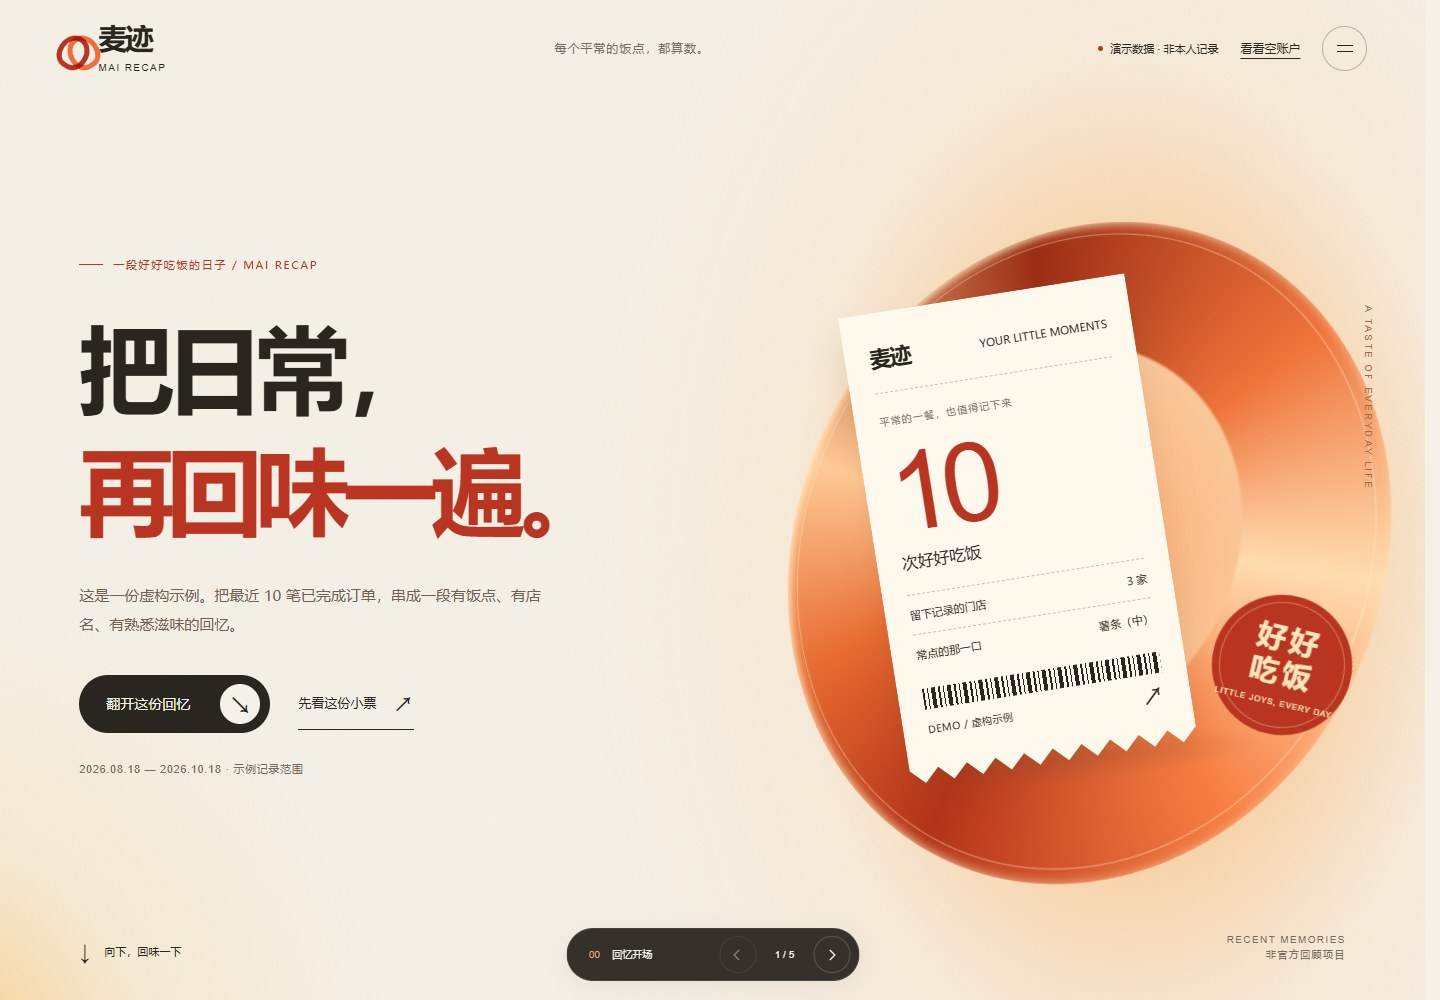
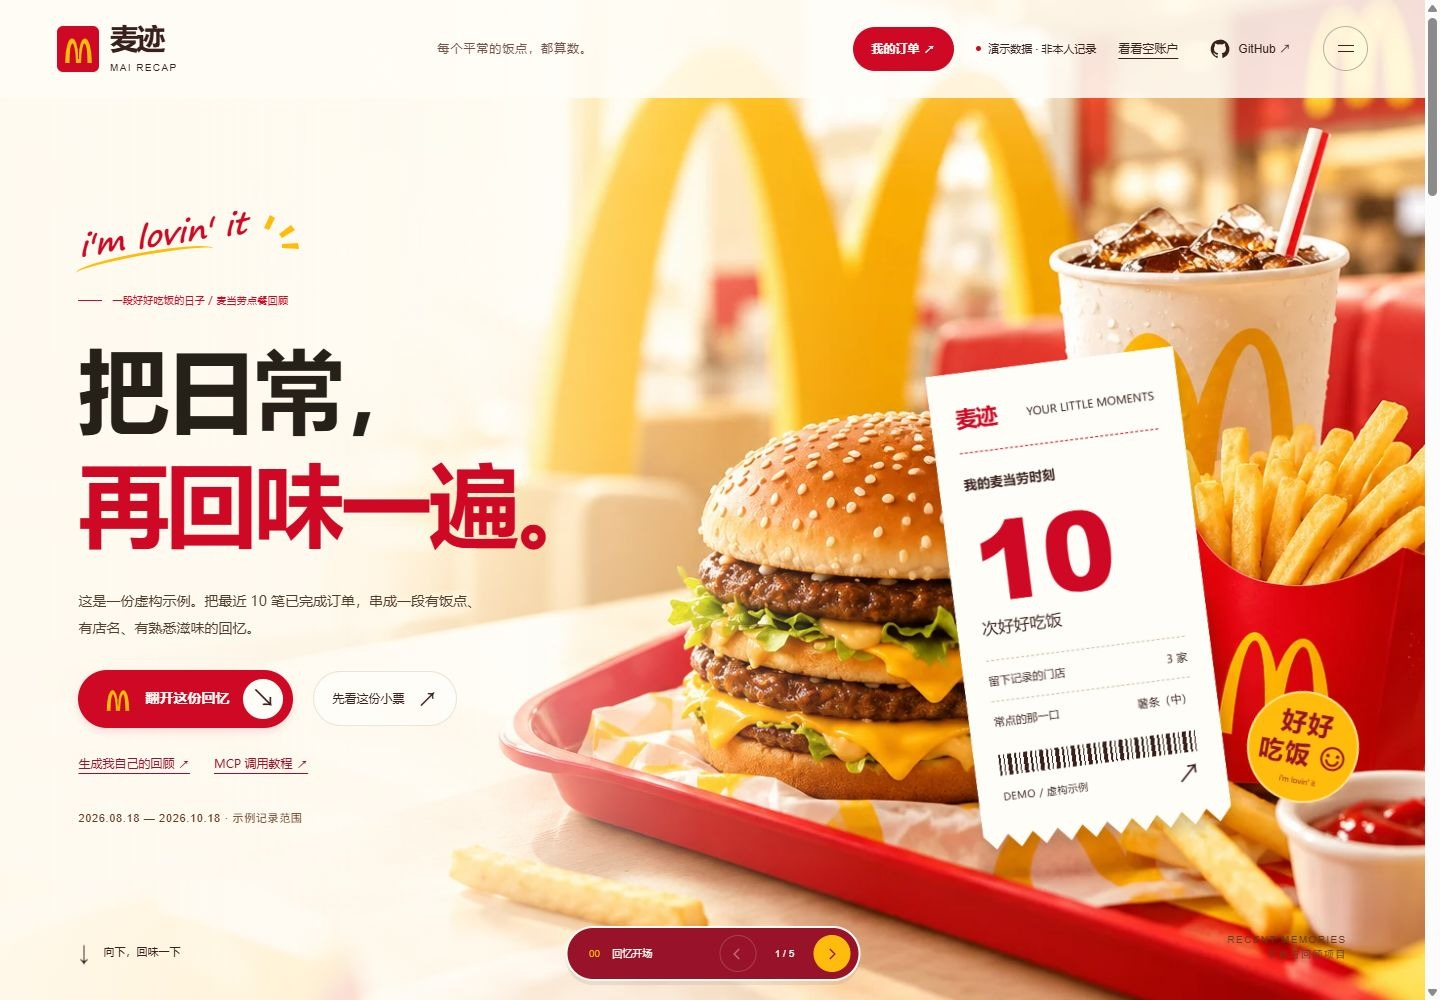
docs: 更新项目介绍与新版界面预览

diff --git a/README.md b/README.md
@@ -6,9 +6,11 @@
   <img src="docs/readme-cover.svg" width="100%" alt="麦迹：把日常，再回味一遍。近期点餐记录，五页回顾，一张分享卡。">
 </p>
 
-<p align="center"><strong>把近期麦当劳点餐记录，变成一份值得收藏的回忆。</strong></p>
+<p align="center"><strong>把每个平常的饭点，打包成一份回忆。</strong></p>
 
-在网页输入自己的 MCP 连接凭证，查看近期历史订单，生成五页回顾和分享卡。无需先上传订单文件，也无需在电脑上安装 Python；想在本机查询和保存完整 HTML 回顾，也可以使用本地命令。
+麦迹把近期麦当劳点餐记录串成五页可以翻看的回顾：什么时候下单、哪些门店常出现、哪一口总想再点。最后，把这些片刻收进一张可以保存的分享小票。
+
+先看虚构演示，无需登录。想回顾自己的记录，再从“我的订单”连接本人账号；也可以在本机生成一份单文件 HTML，离线收藏。
 
 <p align="center">
   <img src="https://img.shields.io/badge/Python-3.10%2B-3776AB?style=flat-square" alt="Python 3.10 或更新版本">
@@ -19,6 +21,7 @@
 
 <p align="center">
   <a href="https://mai-recap.vercel.app/"><strong>在线体验</strong></a> ·
+  <a href="#五页回顾"><strong>页面预览</strong></a> ·
   <a href="#在网页查看自己的订单"><strong>查看我的订单</strong></a> ·
   <a href="#mcp-调用教程"><strong>MCP 调用教程</strong></a> ·
   <a href="https://github.com/dandan1232/mai-recap/archive/refs/heads/main.zip"><strong>下载项目 ZIP</strong></a> ·
@@ -29,6 +32,29 @@
 </p>
 
 麦当劳程序员创意开发大赛开源参赛项目 · **非麦当劳官方产品** · 回顾范围以实际可查询记录为准。
+
+## 五页回顾
+
+经典红黄、金拱门、餐盘和纸质小票，贯穿整份回顾。文字与订单数据由网页展示，饭点、门店券和餐品都可以点开，查看对应记录。
+
+**开场：把日常，再回味一遍。** 从餐盘前的一张小票出发，翻开这段时间的点餐回忆。
+
+![麦迹新版开场页：餐品主视觉与可点击的小票，使用虚构示例订单](docs/preview.jpg)
+
+<table>
+  <tr>
+    <td width="50%" valign="top"><strong>饭点的节奏</strong><br>餐厅夜景搭配饭点小票，点击时段，回看对应订单。<br><br><img src="docs/story-time.jpg" width="100%" alt="新版饭点页：餐厅氛围图、饭点圆环与可点击的时段小票，虚构示例中午间5笔"></td>
+    <td width="50%" valign="top"><strong>熟悉的门店</strong><br>金拱门店景与三张展开的门店券，点开看看那些熟悉的店名。<br><br><img src="docs/story-stores.jpg" width="100%" alt="新版门店页：金拱门店景、红黄白门店券与虚构门店频次"></td>
+  </tr>
+  <tr>
+    <td width="50%" valign="top"><strong>常点的滋味</strong><br>把餐品排进点单回忆单，分清出现笔数和实际份数。<br><br><img src="docs/story-meals.jpg" width="100%" alt="新版餐品页：餐品画面与常点小票，虚构示例中中薯和麦辣鸡腿汉堡并列最多"></td>
+    <td width="50%" valign="top"><strong>把回忆带走</strong><br>打包纸袋前的一张分享小票，打开后可以保存为 PNG 图片。<br><br><img src="docs/story-share.jpg" width="100%" alt="新版分享页：打包纸袋、薯条与可保存的分享小票，使用虚构示例数据"></td>
+  </tr>
+</table>
+
+这份演示包含 **10 笔虚构订单**：午间 5 笔，“示例·河畔餐厅”出现 5 笔，中薯和麦辣鸡腿汉堡各出现在 4 笔订单中。
+
+*以上均为实际运行页面的截图，非本人消费记录。餐品与餐厅背景是 AI 生成的氛围图，不代表对应订单或具体出餐门店实拍。*
 
 ## 在网页查看自己的订单
 
@@ -92,35 +118,6 @@ python recap.py --live
 
 当前命令支持查询订单和生成回顾；优惠点餐尚未上线。
 
-## 有饭点，有店名，有熟悉的那一口
-
-一笔订单里，有下单时间、门店和餐品。麦迹把这些信息串起来：从一张回顾小票出发，依次翻过饭点、门店、餐品，最后留下一张可以保存的分享卡。
-
-**在这份虚构的10笔订单示例里：**
-
-> 5笔下单发生在午间。<br>
-> 「示例·河畔餐厅」出现在5笔订单中。<br>
-> 中薯和麦辣鸡腿汉堡，各出现在4笔订单里。
-
-这些平常的小选择，组成了这段时间的滋味。
-
-![麦迹开场页，全部为虚构示例订单](docs/preview.jpg)
-
-<table>
-  <tr>
-    <td align="center" width="33%"><strong>饭点的节奏</strong><br>用下单时刻，看看这段时间的习惯。</td>
-    <td align="center" width="33%"><strong>熟悉的门店</strong><br>看看哪些出餐门店反复出现。</td>
-    <td align="center" width="33%"><strong>常点的那一口</strong><br>按订单频次，整理餐品回顾。</td>
-  </tr>
-  <tr>
-    <td><img src="docs/story-time.jpg" width="100%" alt="虚构示例：10笔订单中午间5笔，早餐、下午、深夜各1笔，晚间2笔"></td>
-    <td><img src="docs/story-stores.jpg" width="100%" alt="虚构示例：河畔、车站和公园三家餐厅的订单分布"></td>
-    <td><img src="docs/story-meals.jpg" width="100%" alt="虚构示例：薯条和麦辣鸡腿汉堡各出现在4笔订单中"></td>
-  </tr>
-</table>
-
-*以上截图均来自可运行的离线演示，使用虚构订单，非本人消费记录。*
-
 ## 一份回顾，可以留下什么
 
 | 你想回顾的事 | 麦迹会怎样呈现 |
@@ -143,7 +140,7 @@ python recap.py --live
 
 进入页面后，点击“翻开这份回忆”，也可以直接向下滚动。点击饭点、门店或餐品可展开对应记录；最后一页点击“打开分享卡”，预览后保存图片。右上角菜单可跳转章节或体验空账户页面。
 
-五页统一使用经典红黄、餐厅与餐品氛围图、点餐小票和优惠券：从首页的餐盘出发，经过夜晚饭点、金拱门店景、常点餐品，最后用打包纸袋和分享小票收尾。搭配滚动出现与弹层转场，手机使用底部面板，并适配系统的“减少动态效果”设置。氛围图由 AI 生成，不代表订单或具体出餐门店的实拍；图片已内嵌，离线 HTML 也可显示。动画和分享图片生成均在浏览器本地完成，无需额外服务。
+页面支持普通滚动、章节翻页、点击明细与弹层转场；手机使用底部面板，并适配系统的“减少动态效果”设置。餐厅与餐品图片已内嵌，离线 HTML 也能完整显示；动画和分享图片生成均在浏览器内完成，无需额外服务。
 
 **想从源码生成演示：**需要 Python 3.10 或更新版本，使用标准库即可运行。
 
@@ -164,6 +161,15 @@ python recap.py --demo
 3. 点击 **Deploy**。连接 GitHub 后，后续推送到 `main` 会自动更新网站。
 
 构建使用 Node.js 内置功能，无需安装第三方依赖或在 Vercel 运行 Python。本地可执行同一条命令，生成 `dist/index.html`。
+
+**修改界面或图片后：**先在本机重新生成演示，再预览网站构建结果，并把更新后的演示 HTML 一起提交。
+
+```powershell
+python recap.py --demo
+node scripts/build-demo.mjs
+```
+
+网站构建只复制 `麦迹-演示.html`，不会根据 `template.html` 和 `assets/` 重新生成页面。图片已打包在演示 HTML 里，部署后的页面无需另行加载素材目录。
 
 构建会检查页面内置数据的演示标记；`.vercelignore` 使用部署白名单，已放行演示页面、构建文件和 `api` 目录。不要上传本地个人报告或凭证。`api/orders.js` 只允许向固定官方地址发送固定的历史查询，不提供任意 URL 或任意工具转发。
 
@@ -192,6 +198,7 @@ python recap.py --live
 | `api/orders.js` | 网页临时转发订单查询，处理 JSON / SSE 响应，只返回回顾与历史列表所需字段 |
 | `recap.py` | 订单去重、已完成状态筛选、北京时间和餐品频次统计 |
 | `template.html` | 展示五页回顾，在浏览器内生成分享图片 |
+| `assets/` | 四张餐厅与餐品氛围图；生成回顾时内嵌到 HTML |
 
 网页与本地命令都只调用历史查询工具，凭证和原始响应不落盘。网页查询使用已部署的转发接口；本地命令无需部署网站或配置模型服务。
 
@@ -205,7 +212,8 @@ python recap.py --live
 | 有历史订单的真实账号 | **待进一步联调**；当前内容演示使用虚构样例 |
 | 数据处理 | **12项本地检查通过**，包含官方示例“订单已完成”状态识别，可用下面的命令复现 |
 | 网页查询接口 | **8项自动检查通过**，覆盖固定工具调用、SSE、空结果、认证失败、限流、私人字段去除及与本地统计一致性；未使用真实凭证联调新网页接口 |
-| 页面体验 | 已检查电脑、平板和手机尺寸的翻页、空状态和图片下载 |
+| 页面体验 | 已检查电脑、平板和手机尺寸的翻页、明细、空状态和图片下载；三张门店券分别打开对应记录 |
+| 离线图片 | 四张场景图已内嵌到演示及本地生成的 HTML，不依赖外部图片服务 |
 | 全年历史记录 | **不承诺覆盖**；目前接口没有翻页或日期筛选参数，公开反馈为最近10单 |
 | WorkBuddy 专项 | 当前未提供真实 `workbuddy.md` 开发记录，不声称已满足专项条件 |
 
@@ -237,18 +245,25 @@ mai-recap/
 ├── mcp_client.py              # 官方 MCP 只读连接
 ├── api/orders.js             # 网页近期订单查询接口
 ├── template.html             # 叙事式回顾与分享卡
+├── assets/                   # 四张氛围图及生成提示词
 ├── test_recap.py              # 12项数据与安全检查
 ├── test_orders.cjs           # 8项网页接口检查
 ├── 麦迹-演示.html             # 可直接打开的离线演示
 ├── scripts/build-demo.mjs    # 将虚构演示构建为网站首页
 ├── vercel.json              # Vercel 构建命令与网站输出目录
 ├── .vercelignore             # 部署文件白名单
-├── docs/                     # 原创封面、流程图和演示截图
+├── docs/                     # 红黄封面、流程图和五页演示截图
 ├── MCP_INTEGRATION.md         # 实际调用流程与验证情况
 ├── mcp-config.example.json    # 环境变量占位符配置示例
 ├── CONTEST_DECLARATION.md     # 官方参赛声明原文
 └── LICENSE                   # 原创代码的 MIT 许可
 ```
+
+## 图片素材与离线使用
+
+`assets/` 包含首页餐盘、饭点餐厅、金拱门店景、打包纸袋四张 WebP 图片，餐品页复用首页餐品画面。生成方式与提示词见[首页素材说明](assets/meal-hero.txt)和[章节素材说明](assets/chapter-scenes.txt)。
+
+图片只负责营造氛围，标题、订单数据、小票和按钮均由 HTML 展示。`recap.py` 会把图片与回顾数据一起打包进生成文件；生成完成后，单独移动该 HTML 文件也能查看图片与生成分享卡。从源码重新生成时，请保留完整的 `assets/` 目录。
 
 <details>
 <summary><strong>参赛材料与开源说明</strong></summary>
